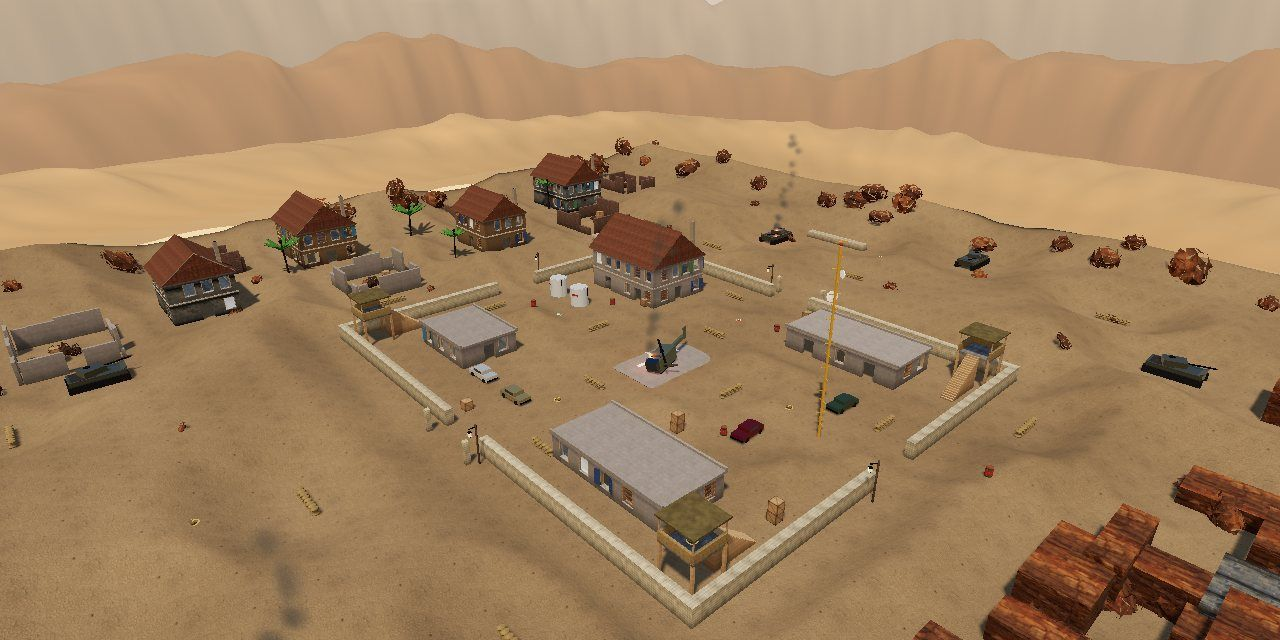
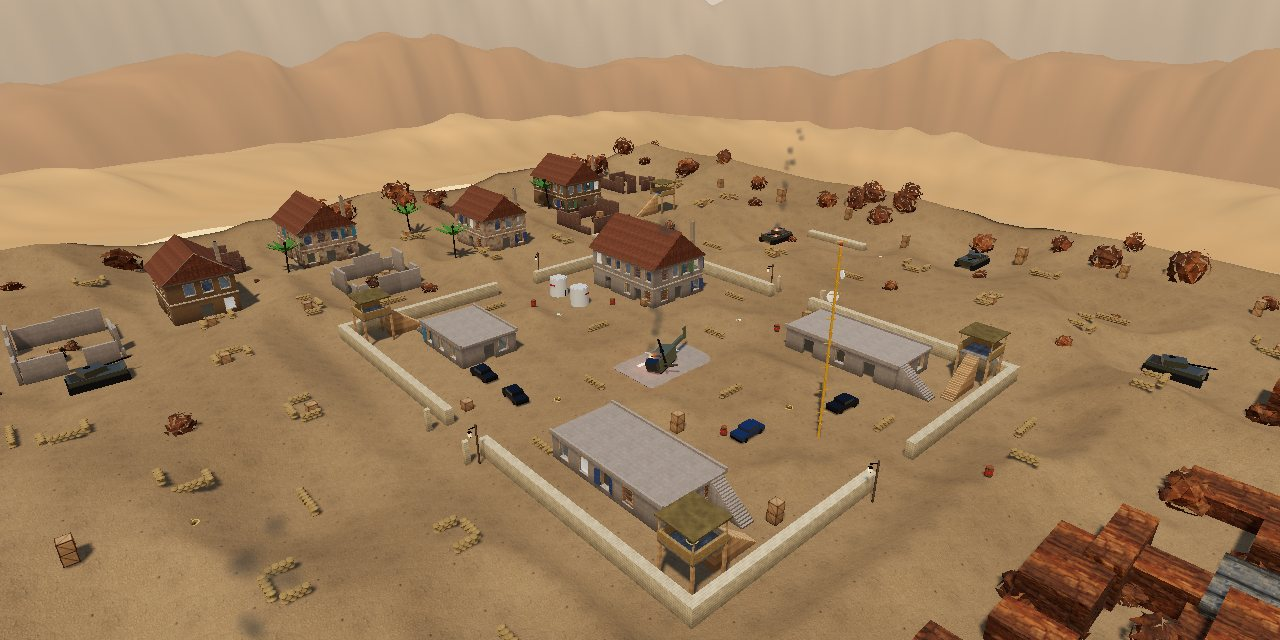
Maps to the Meridian standard: new Old Quarter, high ground, purpose-built cover
- Old Quarter rebuilt as an original layout: covered souk, clock-tower
  square, rampart walk over the east street; mirrored for both teams
- Climbable high ground: Freight container stacks, Firebase bunker roofs,
  Oasis roofs, Millbrook hunting tower; Millbrook gets team spawns
- Cover pass builds real positions (sandbag nests, barrier pairs, crate
  piles, cart groups) instead of scattered single crates
- Refreshed map thumbnails

Claude-Session: https://claude.ai/code/session_016tiaBKXEoAVGUpszsHYEEG

diff --git a/fps/game.js b/fps/game.js
@@ -1313,6 +1313,7 @@ function buildMillbrook(L) {
   house2(L, 6.5, -30, 9, 8, { doors: { e: [-26], n: [11] }, m: 'hutwall', roofM: 'thatch' });   // mill
   const wheel = L.prop('octo', 5.6, -0.6, -26, 1, { r: 2.6, h: 0.6, mat: 'planks' }); wheel.k = 'wheel';
   L.octo(50, -24, 3, 12, 'stonewall'); L.prop('coneroof', 50, 12, -24, 1, { r: 3.6, h: 3, mat: 'tiles' });   // silo
+  watchtower(L, 57, -32, 'nx'); // hunting tower on the farm side (counter: barn loft, mill, the bell tower across the river)
   for (let x = 16; x <= 52; x += 6) for (let z = 28; z <= 44; z += 6) { const tx = x + rand(-1, 1), tz = z + rand(-1, 1); L.B(tx, tz, 0.6, 0.6, 3, 0, 'bark').noRender = true; L.prop('oak', tx, 0, tz, rand(0.85, 1.05), { leaf: pick([0x4a7a35, 0x5a8a3a, 0x6a8a30]) }); } // orchard
   for (const [x, z, len, ry] of [[22, 24, 24, 0], [56, 6, 16, Math.PI / 2], [22, -34, 22, 0], [14, -14, 12, Math.PI / 2]]) { L.prop('fence', x, 0, z, 1, { len, ry }); if (ry) L.box(x - 0.1, 0, z - len / 2, x + 0.1, 1, z + len / 2, 'wood').noRender = true; else L.box(x - len / 2, 0, z - 0.1, x + len / 2, 1, z + 0.1, 'wood').noRender = true; }
   for (const [x, z] of [[46, -8], [52, 0], [18, -40], [30, -40], [58, -36], [12, 10], [16, 18]]) { L.B(x, z, 1.8, 1.2, 1, 0, 'hay'); if (Math.random() < 0.5) L.B(x, z, 1.8, 1.2, 1, 1, 'hay'); }
@@ -1322,13 +1323,14 @@ function buildMillbrook(L) {
   mountains(L, [0x6a8098, 0x7a90a6, 0x5d7489], true);
   L.pad(-8, -40, 0, 15, 0, 6); L.pad(18, 40, 0, 15, 0, -6);
   L.spawn = { x: -58, y: 0, z: 0, yaw: -Math.PI / 2 };
+  L.teamSpawns = [[[-58, -2], [-60, -30], [-60, 30], [-50, -40], [-50, 40], [-48, 0]], [[58, 0], [58, -18], [60, 24], [50, 40], [50, -42], [48, 0]]];
   L.enemySpawns = [[58, 0], [58, -20], [58, 20], [40, 42], [40, -42], [-10, 44], [-10, -44], [-58, -40], [-58, 40], [20, -44], [30, 20], [-40, -44]];
   L.pickups = [['health', -34.5, 0, 23.5], ['ammo', -25.2, 7.6, 13.5], ['health', 28, 4.45, -2.5], ['ammo', 32, 0, 5], ['health', -53.5, 3.65, -8], ['ammo', 48.5, 3.65, 20],
     ['health', 0, 0, 0], ['ammo', 0, 0, 30], ['health', 11, 3.65, -24], ['ammo', -22, 0, 4], ['health', 40, 0, 30], ['ammo', -40, 0, -24]];
   L.barrels = [[-14, -10], [14, 4], [-30, 12], [22, -16], [46, 28], [-46, -28], [6, 22], [-6, -24]];
 }
 
-// ---------------------------------------------------------------- MAP 5: OLD QUARTER (tactical two-site layout)
+// ---------------------------------------------------------------- MAP: OLD QUARTER (souk · tower square · rampart)
 function solid(L, x0, z0, x1, z1, h, m, o = {}) { // a building block that frames the lanes: walls, windows, parapet, awnings
   L.box(x0, 0, z0, x1, h, z1, m);
   L.box(x0 - 0.12, h, z0 - 0.12, x1 + 0.12, h + 0.35, z1 + 0.12, o.trim || 'sandstone', { col: false });
@@ -1351,60 +1353,62 @@ function buildOldQuarter(L) {
   L.bounds = [-52, -46, 52, 46]; L.ground = 'cobble'; L.groundScale = 3.2; L.groundTint = 0xf0dcbc; L.grass = 0.05; L.big = true; L.padStyle = 'rune';
   L.box(-56, -1, -50, 56, 0, 50, 'floor').noRender = true;
   L.box(-53, 0, -47, 53, 9, -46, 'plasterB'); L.box(-53, 0, 46, 53, 9, 47, 'plasterB'); L.box(-53, 0, -46, -52, 9, 46, 'plasterB'); L.box(52, 0, -46, 53, 9, 46, 'plasterB');
-  // ---- building blocks that define the lanes
-  solid(L, -52, -46, -30, -34, 7, 'plasterA'); solid(L, 46, -46, 52, -34, 7, 'plasterA');          // T street ends
-  // between mid and long: a two-storey house (mid ↔ courtyard ↔ long) — upper windows watch mid; countered from both doors
-  solid(L, 5, -34, 30, -30, 6, 'plasterA'); solid(L, 5, -18, 30, -8, 6, 'plasterA', { roof: true });
-  house2(L, 5, -30, 13.5, 12, { m: 'plasterA', roofM: 'tiles', doors: { w: [-24], e: [-21] } });
-  L.box(18.5, 0, -30, 30, 3.0, -29.6, 'plasterB'); L.box(18.5, 0, -18.4, 30, 3.0, -18, 'plasterB'); // courtyard walls; opens onto long
-  crates(L, 21, -27, 2); crates(L, 26.5, -21); L.prop('keg', 22.5, 0, -20.5); L.prop('cart', 25, -26.5, 0, 1, { ry: 1.2 }); L.B(25, -26.5, 2, 3, 1.4, 0, 'wood').noRender = true;
-  solid(L, 21, -8, 30, 12, 6.5, 'plasterB');                                                        // long A inner wall
-  solid(L, 44, -34, 52, 12, 7, 'plasterB'); solid(L, 46, 12, 52, 33, 7, 'plasterA');               // east edge
-  solid(L, 5, 6, 18, 34, 6, 'plasterA', { roof: true });                                           // between mid and A
-  L.box(18, 0, 32, 24, 5.5, 33, 'plasterB'); L.box(30, 0, 32, 46, 5.5, 33, 'plasterB');            // A site north wall (CT ramp gap 24..30)
-  solid(L, 30, 33, 52, 46, 8, 'plasterB'); solid(L, -52, 31, -34, 46, 8, 'plasterB');
-  // between B and mid: tunnel ↔ mid connector house with an upper floor over both lanes
-  solid(L, -20, -34, -5, -26, 6, 'plasterA'); solid(L, -20, -14, -5, 12, 6, 'plasterA', { roof: true });
-  house2(L, -20, -26, 15, 12, { m: 'plasterB', roofM: 'tiles', doors: { w: [-20], e: [-17] } });
-  solid(L, -20, 16, -5, 34, 6, 'plasterB');                                                         // between connector and CT
-  L.box(-48, 0, 30, -32, 5.5, 31, 'plasterB'); L.box(-27, 0, 30, -20, 5.5, 31, 'plasterB'); solid(L, -27, 31, -20, 34, 5.5, 'plasterB'); // B site north wall + B doors gap (-32..-27)
-  solid(L, -52, -34, -36, 2, 7, 'plasterB'); solid(L, -36, -34, -26, -8, 7, 'plasterA'); solid(L, -52, 2, -48, 31, 7, 'plasterA');
-  // mid walls & doors
-  doorway(L, -5, 5, 6.3, -1.3, 1.3, 5.5, 'plasterB');
-  L.box(5, 0, -8, 5.6, 5, -6.5, 'plasterB'); L.box(5, 0, -1.5, 5.6, 5, 6, 'plasterB');                // mid → catwalk room opening (z -6.5..-1.5)
-  crates(L, 2.5, -16, 2); crates(L, -3, -24); crates(L, 3, 18); crates(L, -3.2, 26, 2);
-  // ---- A side: long lane, long doors, site with platform, catwalk
-  doorway(L, 30, 44, -18, 35.2, 38.6, 6, 'plasterB');
-  crates(L, 41.5, -30, 2, true); crates(L, 32.5, -26); crates(L, 42, -6, 2); crates(L, 32, 2);
-  L.B(37, 25, 10, 10, 1.2, 0, 'sandstone'); L.stairs(37, 17, 'pz', 4, 0, 1.2, 3, 'sandstone'); L.stairs(29, 25, 'px', 4, 0, 1.2, 3, 'sandstone'); // A platform
-  crates(L, 34, 27, 2, true); crates(L, 40, 22); crates(L, 27, 15, 2); crates(L, 44, 30); crates(L, 24, 28);
-  L.box(5.6, 0, -8, 21, 0.01, 6, 'floor').noRender = true;                                          // catwalk room
-  L.stairs(19.5, 0, 'pz', 3, 0, 2.4, 6, 'sandstone'); L.B(19.5, 10, 3, 8, 2.4, 0, 'sandstone');      // catwalk up to the short-A ledge
-  L.box(18, 2.4, 6, 18.12, 3.3, 14, 'planks', { col: false }); L.box(20.88, 2.4, 6, 21, 3.3, 14, 'planks', { col: false });
-  crates(L, 8, -5); crates(L, 14, 4);
-  // ---- B side: tunnels, upper tunnel room, site
-  L.box(-26.4, 3.2, -34, -19.6, 3.6, -8, 'roof'); L.box(-36.4, 3.2, -8, -19.6, 3.6, 2, 'roof');      // tunnel roofs
-  L.box(-36, 0, 2, -32, 3.2, 2.5, 'plasterB'); L.box(-26, 0, 2, -20, 3.2, 2.5, 'plasterB');           // tunnel exit framing (gap -32..-26)
-  for (const [x, z] of [[-23, -30], [-23, -18], [-28, -4], [-23, -4]]) L.glow(x, 2.9, z, 0xffb060, 1.1);
-  crates(L, -24.5, -14); crates(L, -33.5, -5, 2);
-  L.B(-44, 26, 8, 8, 1.2, 0, 'sandstone'); L.stairs(-37.5, 26, 'nx', 3, 0, 1.2, 2.5, 'sandstone');  // B back platform
-  L.prop('cart', -33, 16, 0, 1, { ry: 0.5 }); L.B(-33, 16, 2, 3, 1.4, 0, 'wood').noRender = true;
-  crates(L, -26, 8, 2, true); crates(L, -42, 12); crates(L, -24, 24); crates(L, -38, 6, 2);
-  // ---- connector mid ↔ B
-  crates(L, -12, 14);
-  // decoration: arches, awnings, lanterns, palms, kegs
-  for (const [x0, x1, z] of [[-5, 5, 34], [24, 30, 33.5], [-32, -27, 31], [30, 44, -34], [-26, -20, -34]]) L.box(x0 - 0.3, 5, z - 0.4, x1 + 0.3, 5.8, z + 0.4, 'sandstone', { col: false });
-  const awn = [0xb33a3a, 0x2f6fae, 0x3f8f4a, 0xd98a2b, 0x8a4ab0];
-  for (const [x, z, w, d] of [[-10, -35, 4, 1.4], [12, -35, 4, 1.4], [-6, 33, 1.4, 4], [40, 11.8, 3, 1.2], [-40, 2.6, 3, 1.2], [6.2, 20, 1.4, 3]]) L.B(x, z, w, d, 0.1, 3.2, 'cloth', { col: false, tint: pick(awn) });
-  for (const [x, z] of [[-2, -38], [20, -38], [-24, -42], [36, -42], [-14, 40], [14, 40], [-30, 38], [26, 42], [38, 30], [-44, 18], [-1, 0], [34, -12]]) L.prop('lantern', x, 0, z, 1);
-  for (const [x, z] of [[8, 40], [-8, 42], [40, 18], [-46, 8], [-18, -42], [28, -42]]) { L.B(x, z, 0.5, 0.5, 4, 0, 'bark').noRender = true; L.prop('palm', x, 0, z, rand(0.9, 1.15)); }
-  for (const [x, z] of [[43, 26], [-47, 20], [10, -40], [-11, 30]]) { L.prop('keg', x, 0, z); }
+  // ---- OLD QUARTER (original layout). Mirror-symmetric north/south so both teams get the same map.
+  // WEST = covered souk (close quarters, arches, stalls) · CENTRE = clock-tower square (power position, countered by the
+  // upper windows of four houses around it) · EAST = street under a raised rampart walk (long sightline; drop off anywhere).
+  // Cross-alleys at z ±20 and passages at z 0 tie the lanes together; houses double as connectors.
+  const half = sg => {
+    const Z = (a, b) => sg > 0 ? [a, b] : [-b, -a], bx = (x0, y0, za, x1, y1, zb, m, o) => { const [z0, z1] = Z(za, zb); return L.box(x0, y0, z0, x1, y1, z1, m, o); };
+    const sol = (x0, za, x1, zb, h, m, o) => { const [z0, z1] = Z(za, zb); solid(L, x0, z0, x1, z1, h, m, o); };
+    const h2 = (x0, z0, w, d, o, dr) => { const md = {}; for (const k in dr) { const kk = sg > 0 ? k : k === 'n' ? 's' : k === 's' ? 'n' : k; md[kk] = k === 'e' || k === 'w' ? dr[k].map(v => v * sg) : dr[k]; } house2(L, x0, sg > 0 ? z0 : -(z0 + d), w, d, Object.assign({ roofM: 'tiles', doors: md }, o)); };
+    // west / centre blocks
+    sol(-52, 0, -46, 34, 7, 'plasterB');
+    h2(-36, 22, 14, 12, { m: 'plasterA' }, { w: [28], s: [-29] }); sol(-22, 22, -4, 34, 6, 'plasterB', { roof: true });
+    h2(-30, 2, 16, 12, { m: 'plasterB' }, { s: [-22], e: [8] }); sol(-36, 2, -30, 18, 6, 'plasterA'); sol(-30, 14, -14, 18, 6, 'plasterA');
+    // east blocks
+    h2(14, 2, 16, 12, { m: 'plasterA' }, { w: [8], s: [22] }); sol(30, 2, 32, 18, 6, 'plasterB'); sol(14, 14, 30, 18, 6, 'plasterB');
+    h2(18, 22, 14, 12, { m: 'plasterB' }, { e: [28], s: [25] }); sol(4, 22, 18, 34, 6, 'plasterA', { roof: true });
+    // chokepoints: arches across the souk and the mid street (alternate routes: the cross-alleys & houses)
+    { const z = 26 * sg; doorway(L, -46, -36, z, -42.6, -39.4, 6, 'plasterB'); doorway(L, -4, 4, z, -1.7, 1.7, 6, 'plasterA'); }
+    // east rampart: stairs at its end, parapet with gaps (one-way drops into the street)
+    L.stairs(49, 32 * sg, sg > 0 ? 'nz' : 'pz', 3, 0, 3.4, 6, 'sandstone');
+    for (let z = 2; z < 26; z += 6) bx(46, 3.4, z, 46.4, 4.4, z + 3.6, 'sandstone');
+    crates(L, 50, 14 * sg, 1); crates(L, 50.2, 20 * sg, 2);
+    // souk dressing: stalls, awnings, lanterns under the covered stretch
+    const st = (x, z, ry, c) => { L.B(x, z * sg, 1.5, 1.5, 0.9, 0, 'planks').noRender = true; L.prop('stall', x, 0, z * sg, 1, { ry, c }); };
+    st(-44, 8, 1.57, 0xb33a3a); st(-38, 16, -1.57, 0x2f6fae); st(-44.2, 30, 1.57, 0x3f8f4a);
+    for (const [x, z] of [[-41, 6], [-41, 14]]) L.glow(x, 3.0, z * sg, 0xffb060, 1.1);
+    L.B(-41, 21 * sg, 9.6, 2.6, 0.1, 3.3, 'cloth', { col: false, tint: sg > 0 ? 0xb33a3a : 0x2f6fae });
+    // square + mid street cover
+    L.B(-9, 9 * sg, 2.6, 1.2, 1.0, 0, 'stone'); L.B(9, 9 * sg, 1.2, 2.6, 1.0, 0, 'stone');
+    crates(L, -2.2, 18 * sg, 2); crates(L, 2.4, 30 * sg); L.prop('cart', 9, 0, 20 * sg, 1, { ry: 1.57 }); L.B(9, 20 * sg, 3, 2, 1.4, 0, 'wood').noRender = true;
+    // east street: carts & a low wall breaking the long sightline
+    L.prop('cart', 36, 0, 12 * sg, 1, { ry: 0.2 }); L.B(36, 12 * sg, 2, 3, 1.4, 0, 'wood').noRender = true; bx(39, 0, 24, 43, 1.1, 24.6, 'stone'); crates(L, 34, 29 * sg, 2);
+    // spawn plaza: fountains, palms, kegs; awnings on the house fronts
+    L.octo(-22, 40 * sg, 2.2, 0.85, 'stone'); L.water.push([-23.6, 40 * sg - 1.6, -20.4, 40 * sg + 1.6, 0.75]); L.octo(22, 40 * sg, 2.2, 0.85, 'stone'); L.water.push([20.4, 40 * sg - 1.6, 23.6, 40 * sg + 1.6, 0.75]);
+    for (const x of [-44, -8, 8, 44]) { L.B(x, 43.5 * sg, 0.5, 0.5, 4, 0, 'bark').noRender = true; L.prop('palm', x, 0, 43.5 * sg, 1.05); }
+    for (const [x, z] of [[-30, 36], [30, 36], [-2, 36], [44, 36], [-46, 36]]) L.prop('lantern', x, 0, z * sg, 1);
+    L.prop('keg', -14, 0, 36 * sg); L.prop('keg', 15, 0, 35.5 * sg);
+    const awn = [0xb33a3a, 0x2f6fae, 0x3f8f4a, 0xd98a2b, 0x8a4ab0];
+    for (const [x, w] of [[-13, 6], [11, 6]]) L.B(x, 35 * sg, w, 1.6, 0.1, 3.2, 'cloth', { col: false, tint: pick(awn) });
+  };
+  half(1); half(-1);
+  // souk roof over the middle stretch + passage arches
+  L.box(-46, 3.4, -12, -36, 3.7, 12, 'roof'); for (const z of [-8, 0, 8]) L.glow(-41, 3.0, z, 0xffb060, 1.1);
+  { const st = (x, z, ry, c) => { L.B(x, z, 1.5, 1.5, 0.9, 0, 'planks').noRender = true; L.prop('stall', x, 0, z, 1, { ry, c }); }; st(-44, -3.5, 1.57, 0xd98a2b); st(-38, 3.5, -1.57, 0x8a4ab0); }
+  for (const [x0, x1] of [[-36, -30], [30, 32]]) L.box(x0, 3.4, -2.3, x1, 4.2, 2.3, 'sandstone'); // lintels over the passage mouths
+  // the clock tower in the square (three levels; belfry sees both mid streets)
+  stairTower(L, -3, -3, 6, 'castle');
+  // east rampart walk (solid below) + its middle stair from the passage
+  L.box(46, 0, -26, 52, 3.4, 26, 'sandstone'); L.box(45.9, 3.4, -26, 52, 3.5, 26, 'stone', { col: false });
+  L.stairs(40, 0, 'px', 3, 0, 3.4, 6, 'sandstone');
+  for (const [x, z] of [[-2, 16.5], [2, -16.5], [-24, 20], [24, -20]]) L.prop('lantern', x, 0, z, 1);
   mountains(L, [0xc2a882, 0xb39a76, 0xcab28c], false);
   L.spawn = { x: 0, y: 0, z: 40, yaw: 0 };
-  L.teamSpawns = [[[-20, 40], [-10, 40], [0, 40], [10, 40], [20, 40], [-28, 38], [26, 38]], [[-24, -40], [-12, -40], [0, -40], [12, -40], [24, -40], [36, -40], [-28, -38]]];
-  L.enemySpawns = L.teamSpawns[1].concat([[37, -28], [-23, -28], [-40, 20], [43, 16], [0, -30], [24, 40], [-24, 40]]);
-  L.pickups = [['health', 0, 0, -10], ['ammo', 37, 1.2, 25], ['health', -34, 0, 24], ['ammo', 19.5, 2.4, 11], ['health', -28, 0, -2], ['ammo', 37, 0, -26], ['ammo', 0, 0, 38], ['health', 13, 0, -2]];
-  L.barrels = [[40, -10], [-30, 10], [12, -6], [-10, 14], [30, 20]];
+  L.teamSpawns = [[[-40, 40], [-30, 41], [-12, 41], [0, 41], [12, 41], [30, 41], [40, 40]], [[-40, -40], [-30, -41], [-12, -41], [0, -41], [12, -41], [30, -41], [40, -40]]];
+  L.enemySpawns = L.teamSpawns[1].concat([[-41, -20], [-41, 20], [39, -16], [39, 16], [-20, 20], [20, -20], [-9, -12], [9, 12]]);
+  L.pickups = [['health', -10, 0, -11], ['ammo', 10, 0, 11], ['health', -41, 0, 0], ['ammo', 38, 0, -8], ['ammo', 49, 3.4, 8], ['health', 49, 3.4, -8], ['ammo', -24, 0, 0], ['health', 24, 0, 0]];
+  L.barrels = [[-12, 20], [12, -20], [38, 22], [-40, -24], [-30, 0], [30, 0]];
 }
 
 // ---------------------------------------------------------------- MAP 6: CROSSROADS (large war-torn city)
@@ -1585,6 +1589,8 @@ function buildFreight(L) {
   // metal stairs up onto four single containers (high ground over the lanes)
   L.stairs(-22, -27.35, 'nz', 2.2, 0, 2.6, 3.4, 'grate'); L.stairs(18, -10.65, 'pz', 2.2, 0, 2.6, 3.4, 'grate');
   L.stairs(-18, 11.65, 'nz', 2.2, 0, 2.6, 3.4, 'grate'); L.stairs(22, 27.35, 'pz', 2.2, 0, 2.6, 3.4, 'grate');
+  L.stairs(-3, -2.4, 'nz', 2.2, 0, 2.6, 3.4, 'grate'); L.stairs(3, 2.4, 'pz', 2.2, 0, 2.6, 3.4, 'grate');      // centre pair: hold mid, countered from the stacks
+  L.stairs(-28, -4.9, 'nz', 2.2, 0, 5.2, 7, 'grate'); L.stairs(28, 4.9, 'pz', 2.2, 0, 5.2, 7, 'grate');         // up onto the double stacks (power positions)
   // gantry crane straddling the yard
   for (const [x, z] of [[-31, -38], [31, -38], [-31, 38], [31, 38]]) { L.B(x, z, 1.1, 1.1, 22, 0, 'crane'); L.prop('cranewheel', x, 0, z, 1); }
   L.box(-32, 20, -38.6, 32, 22, -37.4, 'crane', { col: false }); L.box(-32, 20, 37.4, 32, 22, 38.6, 'crane', { col: false });
@@ -1691,6 +1697,7 @@ function buildOasis(L) {
   house2(L, 36, -30, 9, 10, { m: 'plasterA', roofM: 'tiles', doors: { w: [-25], s: [40.5] } });
   bunker(L, -8, -50, 14, 8, { n: [-1] }, 'plasterB'); bunker(L, 40, -50, 12, 8, { n: [46], w: [-46] }, 'plasterA');
   bunker(L, -58, -20, 10, 12, { e: [-14], n: [-53] }, 'sandstone'); bunker(L, 50, 6, 12, 10, { w: [11], s: [56] }, 'plasterB');
+  L.stairs(-52, -24.7, 'pz', 1.8, 0, 3.5, 4.7, 'sandstone'); L.stairs(45.3, 14, 'px', 1.8, 0, 3.5, 4.7, 'plasterB'); // flat roofs you can climb
   const awn = [0xc04a2a, 0x2f6fae, 0x3f8f4a, 0xd98a2b, 0x8a4ab0];
   [[-6, -24, 1], [2, -26, 1], [10, -23, 0], [-12, -30, 0], [6, -33, 1]].forEach(([cx, cz, r], i) => { const w = r ? 3.4 : 1, d = r ? 1 : 3.4, aw = r ? 4 : 2.6, ad = r ? 2.6 : 4;
     L.B(cx, cz, w, d, 1.1, 0, 'planks'); L.B(cx, cz, aw, ad, 0.1, 2.7, 'cloth', { col: false, tint: awn[i] }); for (const sx of [-1, 1]) for (const sz of [-1, 1]) L.B(cx + sx * (aw / 2 - 0.1), cz + sz * (ad / 2 - 0.1), 0.12, 0.12, 2.7, 0, 'planks', { col: false }); });
@@ -1710,7 +1717,7 @@ function buildOasis(L) {
   L.barrels = [[-12, -18], [12, 20], [-36, 18], [36, -12], [-20, 30], [20, -32]];
 }
 function buildFirebase(L) {
-  L.coverKit = 'mil';
+  L.coverKit = 'mil'; L.coverGap = 9;
   L.edge = 'berm'; L.edgeBerm = 6; L.edgeW = 16; L.rockC = 0xc8ac88;
   L.hills = 5.5; L.hillScale = 38; L.hillRamp = 11;
   const R = seeded(4242);
@@ -1727,6 +1734,7 @@ function buildFirebase(L) {
   // command post (two storeys), barracks, motor pool
   house2(L, -30, -24, 16, 12, { m: 'concrete', roofM: 'tiles', doors: { n: [-26, -18], e: [-18], s: [-22] } });
   bunker(L, 10, -26, 18, 9, { n: [14, 24], w: [-21.5] }); bunker(L, 10, 17, 18, 9, { s: [14, 24], e: [21.5] }); bunker(L, -28, 14, 12, 9, { s: [-22], e: [18.5] });
+  L.stairs(32.7, -18.5, 'nx', 1.8, 0, 3.5, 4.7, 'concrete'); L.stairs(32.7, 18.5, 'nx', 1.8, 0, 3.5, 4.7, 'concrete'); L.stairs(-32.7, 21, 'px', 1.8, 0, 3.5, 4.7, 'concrete'); // bunker roofs = mid-height positions
   // helipad + downed helicopter
   L.box(-7, 0, -7, 7, 0.06, 7, 'concrete', { col: false }); L.box(-0.3, 0.06, -4, 0.3, 0.07, 4, 'white', { col: false }); L.box(-3, 0.06, -0.3, 3, 0.07, 0.3, 'white', { col: false });
   L.B(2, 1, 3, 9, 2.6, 0, 'carpaint', { tint: 0x5a5f48 }).noRender = true; L.prop('heli', 2, 0, 1, 1, { ry: 0.35 }); L.glow(1.5, 2.2, 3, 0xff8030, 2, true); L.smoke.push([1.5, 2.6, 3]);
@@ -1918,7 +1926,7 @@ function buildBazaar(L) {
 
 const MAPS = [
   {
-    name: 'OLD QUARTER', desc: 'Tactical two-site town in the desert sun: long A, mid doors, B tunnels and a catwalk. Built for Team Deathmatch.', tag: 'Competitive · lanes & angles', build: buildOldQuarter,
+    name: 'OLD QUARTER', desc: 'Sun-baked old town: a covered souk, a clock-tower square and a rampart walk over the east street, stitched together by alleys and houses.', tag: 'Three lanes · tower square', build: buildOldQuarter,
     theme: {
       skyTop: 0x3f86d6, skyBottom: 0xf4e2c0, sunColor: 0xfff0d0, sunDir: [0.4, 0.7, -0.35], fog: 0xe8dcc4, fogNear: 70, fogFar: 240,
       hemiSky: 0xe8f0ff, hemiGround: 0xa08a64, hemi: 1.3, sun: 2.8, sunLight: 0xfff0d8, shadowSun: [0.4, 1, -0.35], farGround: 0xc8b08a, clouds: 6, cloudColor: 0xffffff,
@@ -2089,8 +2097,14 @@ function coverPass(L, name) {
   // 2) fill open ground, worst spot first
   const gap = L.coverGap || 7.5; let placed = 0;
   for (let it = 0; it < 90; it++) { dist(); let bk = -1, bv = gap; for (let k = 0; k < N; k++) if (!keep[k] && d[k] > bv + (R() - 0.5) * 0.6) { bv = d[k]; bk = k; } if (bk < 0) break;
-    const x = bx0 + (bk % nx) * cs, z = bz0 + Math.floor(bk / nx) * cs, axis = R() < 0.5 ? 'x' : 'z'; piece(x, z, axis, false); placed++;
-    if (R() < 0.6) { const a = R() * 6.283, x2 = Math.round(x + Math.cos(a) * 3.2), z2 = Math.round(z + Math.sin(a) * 3.2); if (free(x2, z2, 1)) piece(x2, z2, axis === 'x' ? 'z' : 'x', R() < 0.4); } }
+    const x = bx0 + (bk % nx) * cs, z = bz0 + Math.floor(bk / nx) * cs, ax = R() < 0.5 ? 'x' : 'z', o = ax === 'x' ? 'z' : 'x', sg = R() < 0.5 ? 1 : -1, P = (u, v) => ax === 'x' ? [x + u, z + v * sg] : [x + v * sg, z + u];
+    if (kit === 'mil' && free(x, z, 3)) { // sandbag fighting position: a U open to the rear, sometimes with an ammo crate inside
+      sandbags(L, ...P(0, 1.5), 3, ax); sandbags(L, ...P(-1.95, -0.1), 2.4, o); sandbags(L, ...P(1.95, -0.1), 2.4, o); if (R() < 0.5) crates(L, ...P(0.9, -0.6), 1); mark(x - 3.5, z - 3.5, x + 3.5, z + 3.5, occ); }
+    else if (kit === 'urban' && free(x, z, 3)) { barrier(L, ...P(-1.7, 0), ax); barrier(L, ...P(1.7, 0.5), ax); if (R() < 0.6) crates(L, ...P(0, -1.6), R() < 0.5 ? 2 : 1); mark(x - 3.5, z - 3.5, x + 3.5, z + 3.5, occ); }
+    else if (kit === 'yard' && free(x, z, 3)) { crates(L, ...P(-0.9, 0), 2, true); crates(L, ...P(0.9, 0.1), 1, true); crates(L, ...P(0.2, -1.5), 1); mark(x - 3.5, z - 3.5, x + 3.5, z + 3.5, occ); }
+    else if (kit === 'town' && free(x, z, 3)) { const [cx, cz] = P(0, 0.6); L.prop('cart', cx, 0, cz, 1, { ry: ax === 'x' ? Math.PI / 2 : 0 }); L.B(cx, cz, ax === 'x' ? 3 : 2, ax === 'x' ? 2 : 3, 1.4, 0, 'wood').noRender = true; crates(L, ...P(2.2, -0.6), R() < 0.5 ? 2 : 1); L.prop('keg', ...((q) => [q[0], 0, q[1]])(P(-2, -0.8))); mark(x - 3.5, z - 3.5, x + 3.5, z + 3.5, occ); }
+    else piece(x, z, ax, false);
+    placed++; }
   L.coverPlaced = placed;
 }
 function dressEdges(L, name) {
@@ -5747,7 +5761,7 @@ function captureMapThumb() {
   try { const c = document.createElement('canvas'); const src = renderer.domElement, W = Math.min(1280, src.width), H = Math.round(W * src.height / src.width); c.width = W; c.height = H; const g = c.getContext('2d'); g.imageSmoothingQuality = 'high'; g.drawImage(src, 0, 0, W, H); const url = c.toDataURL('image/jpeg', 0.8); // big enough to fill the loading screen sharply
     const key = 'bp_mthumb2_' + world.def.name; try { for (const m of MAPS) localStorage.removeItem('bp_mthumb_' + m.name); localStorage.setItem(key, url); } catch (e) {} applyMapThumbs(); } catch (e) {}
 }
-const MAPIMG = i => `thumbs/${i}.jpg?v=6`; // baked aerial postcards (see postcard())
+const MAPIMG = i => `thumbs/${i}.jpg?v=7`; // baked aerial postcards (see postcard())
 function applyMapThumbs() { MAPS.forEach((m, i) => { const u = MAPIMG(i); const card = $('maps').children[i]; if (card && u) { card.style.backgroundImage = `linear-gradient(180deg,rgba(12,14,19,0) 25%,rgba(12,14,19,.55) 60%,rgba(12,14,19,.9)),url(${u})`; card.style.backgroundSize = 'cover'; card.style.backgroundPosition = 'center 68%'; } }); }
 
 // ============================================================ GAMEPAD (Xbox / PlayStation via the Gamepad API)

diff --git a/fps/index.html b/fps/index.html
@@ -507,7 +507,7 @@ img.thumb.tall{height:110px;object-fit:cover}
 
 <script src="three.min.js"></script>
 <script src="peerjs.min.js?v=1.5.4"></script>
-<script src="game.js?v=202611190900"></script>
+<script src="game.js?v=202611191400"></script>
 <script type="module" src="lib/assets.js?v=202611182330"></script>
 <script type="module" src="lib/post.js?v=202611182330"></script>
 </body>
